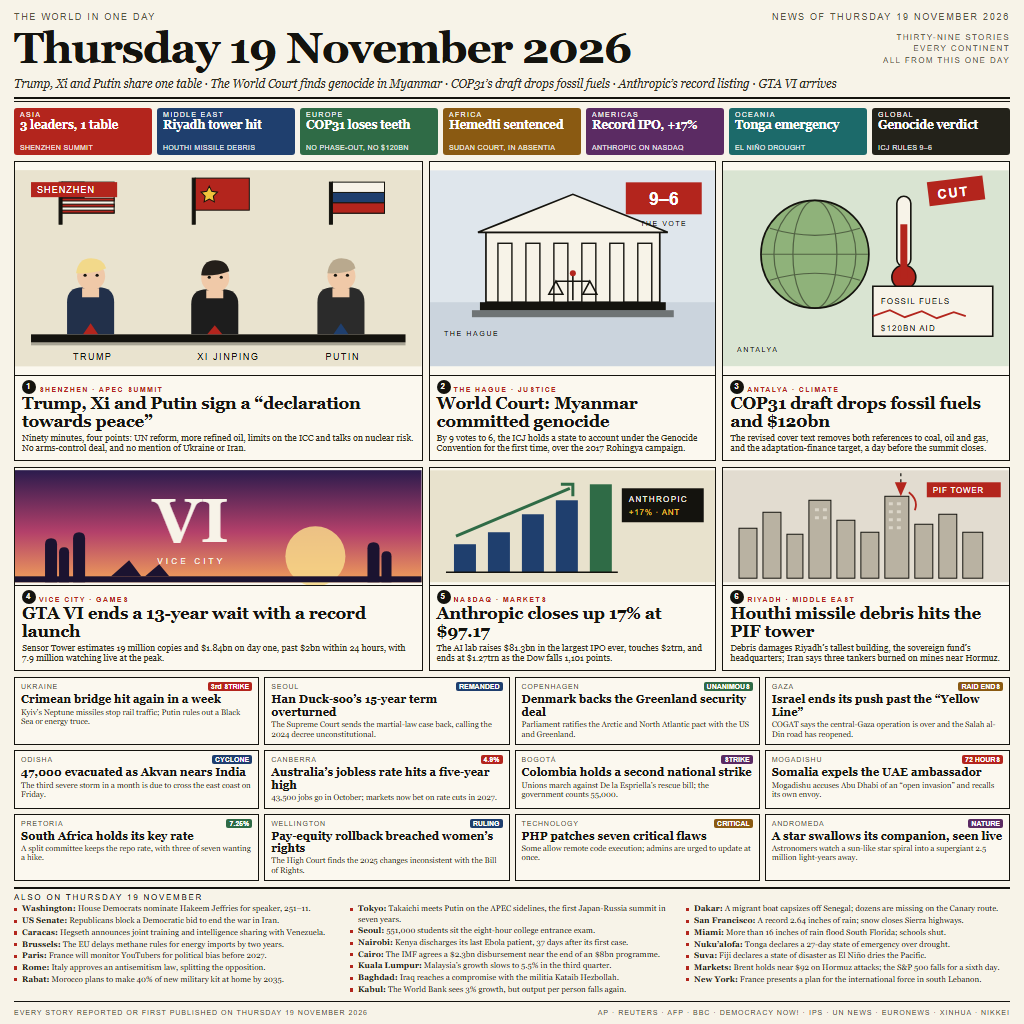
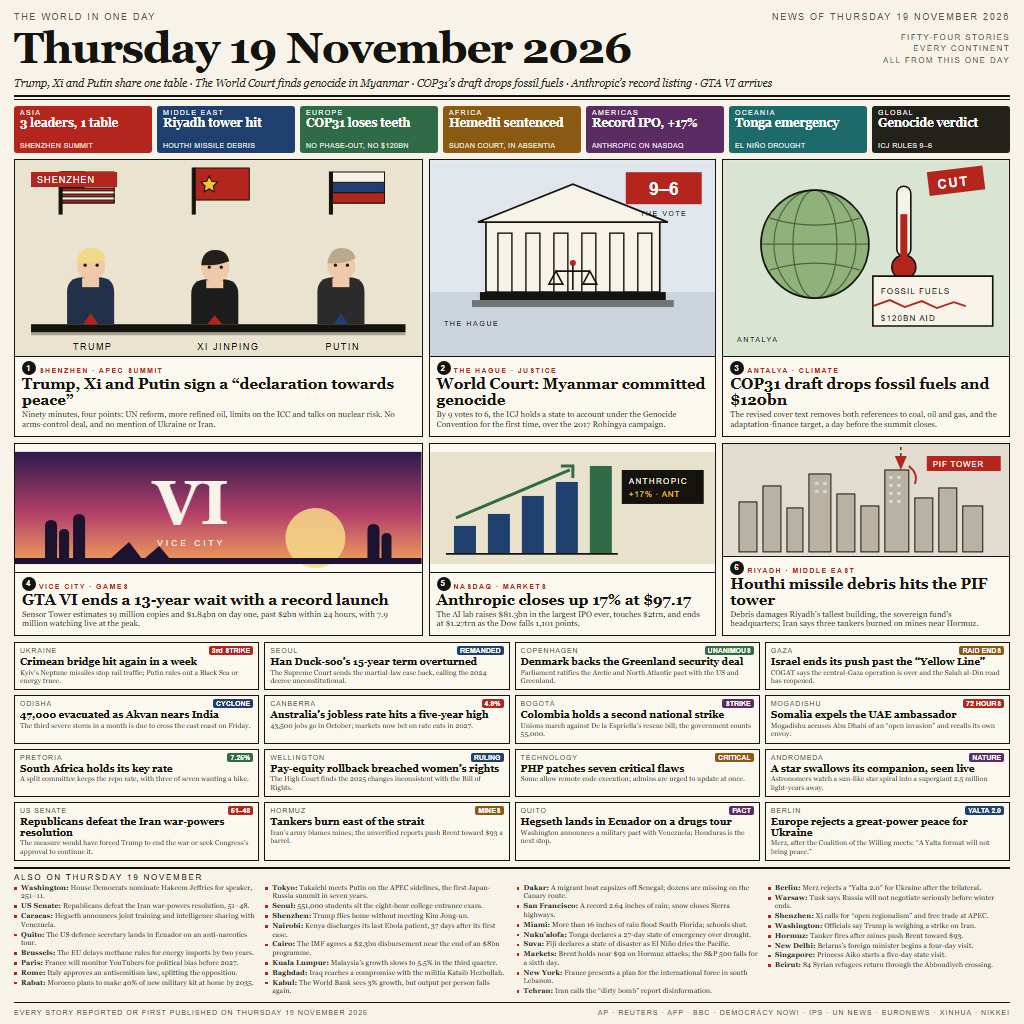
Expand the front page to 54 stories and tighten the layout

diff --git a/design/front-page.html b/design/front-page.html
@@ -15,7 +15,7 @@
   h1 { font-size: 44px; line-height: .94; letter-spacing: -1.3px; font-weight: 700; }
   .mastnote { text-align: right; font-family: Arial, Helvetica, sans-serif; font-size: 8px; letter-spacing: 1.4px;
     text-transform: uppercase; color: #57543f; line-height: 1.45; padding-bottom: 3px; }
-  .sub { font-size: 11.5px; font-style: italic; color: #2f2d22; margin-top: 2px; }
+  .sub { font-size: 10.6px; font-style: italic; color: #2f2d22; margin-top: 2px; }
   .rules { border-top: 2.5px solid #14130e; border-bottom: 1px solid #14130e; height: 5px; }
 
   .regions { display: grid; grid-template-columns: repeat(7, 1fr); gap: 5px; }
@@ -33,25 +33,25 @@
   .art svg { width: 100%; height: 100%; display: block; }
   .cap { padding: 4px 7px 6px; border-top: 1.4px solid #14130e; }
   .k { font-family: Arial, Helvetica, sans-serif; font-size: 7px; letter-spacing: 1.4px; text-transform: uppercase; color: #b3251d; font-weight: 700; }
-  .panel h2 { font-size: 17px; line-height: 1.05; letter-spacing: -.25px; margin: 1px 0 2px; }
-  .panel p { font-size: 8.8px; line-height: 1.24; color: #33311f; }
+  .panel h2 { font-size: 15.4px; line-height: 1.04; letter-spacing: -.25px; margin: 1px 0 2px; }
+  .panel p { font-size: 8.1px; line-height: 1.2; color: #33311f; }
   .num { display: inline-flex; align-items: center; justify-content: center; width: 14px; height: 14px; border-radius: 50%;
     background: #14130e; color: #f7f3e8; font-family: Arial, Helvetica, sans-serif; font-size: 8px; font-weight: 700; margin-right: 3px; vertical-align: 2px; }
 
   .cards { display: grid; grid-template-columns: repeat(4, 1fr); gap: 5px; }
-  .card { border: 1.2px solid #14130e; background: #fbf8ef; padding: 4px 6px 5px; display: flex; flex-direction: column; }
+  .card { border: 1.2px solid #14130e; background: #fbf8ef; padding: 3px 5px 4px; display: flex; flex-direction: column; }
   .card .top { display: flex; align-items: center; justify-content: space-between; margin-bottom: 2px; }
   .card .tag { font-family: Arial, Helvetica, sans-serif; font-size: 6.6px; letter-spacing: 1.1px; text-transform: uppercase; color: #57543f; }
-  .card h3 { font-size: 11.4px; line-height: 1.08; margin-bottom: 2px; letter-spacing: -.1px; }
-  .card p { font-size: 7.9px; line-height: 1.22; color: #33311f; }
+  .card h3 { font-size: 10.1px; line-height: 1.06; margin-bottom: 1px; letter-spacing: -.1px; }
+  .card p { font-size: 7.1px; line-height: 1.17; color: #33311f; }
   .card .badge { font-family: Arial, Helvetica, sans-serif; font-size: 7px; font-weight: 700; padding: 1px 3px; border-radius: 2px; color: #fff; }
 
   .ticker { border-top: 2.5px solid #14130e; border-bottom: 1px solid #14130e; padding: 4px 0 5px; display: grid;
-    grid-template-columns: repeat(3, 1fr); gap: 0 12px; }
+    grid-template-columns: repeat(4, 1fr); gap: 0 9px; }
   .ticker .h { grid-column: 1 / -1; font-family: Arial, Helvetica, sans-serif; font-size: 7.6px; letter-spacing: 2px;
     text-transform: uppercase; color: #14130e; margin-bottom: 2px; }
-  .item { font-size: 8.1px; line-height: 1.26; padding-left: 8px; position: relative; margin-bottom: 1.5px; color: #26251b; }
-  .item:before { content: ""; position: absolute; left: 0; top: 3.6px; width: 3.2px; height: 3.2px; background: #b3251d; }
+  .item { font-size: 7.2px; line-height: 1.2; padding-left: 7px; position: relative; margin-bottom: 1.2px; color: #26251b; }
+  .item:before { content: ""; position: absolute; left: 0; top: 3.1px; width: 2.8px; height: 2.8px; background: #b3251d; }
   .item b { font-weight: 700; }
 
   .foot { margin-top: auto; display: flex; justify-content: space-between; font-family: Arial, Helvetica, sans-serif;
@@ -64,7 +64,7 @@
   <div class="hrow"><span>The world in one day</span><span>News of Thursday 19 November 2026</span></div>
   <div class="mast">
     <h1>Thursday 19 November 2026</h1>
-    <div class="mastnote">Thirty-nine stories<br>Every continent<br>All from this one day</div>
+    <div class="mastnote">Fifty-four stories<br>Every continent<br>All from this one day</div>
   </div>
   <div class="sub">Trump, Xi and Putin share one table &middot; The World Court finds genocide in Myanmar &middot; COP31&rsquo;s draft drops fossil fuels &middot; Anthropic&rsquo;s record listing &middot; GTA VI arrives</div>
   <div class="rules"></div>
@@ -79,7 +79,7 @@
     <div class="reg r7"><div class="n">Global</div><div class="v">Genocide verdict</div><div class="c">ICJ rules 9&ndash;6</div></div>
   </div>
 
-  <div class="panels p3" style="height:300px">
+  <div class="panels p3" style="height:286px">
     <div class="panel">
       <div class="art">
         <svg viewBox="0 0 406 196">
@@ -197,7 +197,7 @@
     </div>
   </div>
 
-  <div class="panels p3" style="height:204px">
+  <div class="panels p3" style="height:194px">
     <div class="panel">
       <div class="art">
         <svg viewBox="0 0 406 112">
@@ -345,14 +345,36 @@
       <h3>A star swallows its companion, seen live</h3>
       <p>Astronomers watch a sun-like star spiral into a supergiant 2.5 million light-years away.</p>
     </div>
+
+    <div class="card">
+      <div class="top"><span class="tag">US Senate</span><span class="badge" style="background:#b3251d">51&ndash;48</span></div>
+      <h3>Republicans defeat the Iran war-powers resolution</h3>
+      <p>The measure would have forced Trump to end the war or seek Congress&rsquo;s approval to continue it.</p>
+    </div>
+    <div class="card">
+      <div class="top"><span class="tag">Hormuz</span><span class="badge" style="background:#8a5a12">MINES</span></div>
+      <h3>Tankers burn east of the strait</h3>
+      <p>Iran&rsquo;s army blames mines; the unverified reports push Brent toward $93 a barrel.</p>
+    </div>
+    <div class="card">
+      <div class="top"><span class="tag">Quito</span><span class="badge" style="background:#5b2b63">PACT</span></div>
+      <h3>Hegseth lands in Ecuador on a drugs tour</h3>
+      <p>Washington announces a military pact with Venezuela; Honduras is the next stop.</p>
+    </div>
+    <div class="card">
+      <div class="top"><span class="tag">Berlin</span><span class="badge" style="background:#1f3f6e">YALTA 2.0</span></div>
+      <h3>Europe rejects a great-power peace for Ukraine</h3>
+      <p>Merz, after the Coalition of the Willing meets: &ldquo;A Yalta format will not bring peace.&rdquo;</p>
+    </div>
   </div>
 
   <div class="ticker">
     <div class="h">Also on Thursday 19 November</div>
     <div>
       <div class="item"><b>Washington:</b> House Democrats nominate Hakeem Jeffries for speaker, 251&ndash;11.</div>
-      <div class="item"><b>US Senate:</b> Republicans block a Democratic bid to end the war in Iran.</div>
+      <div class="item"><b>US Senate:</b> Republicans defeat the Iran war-powers resolution, 51&ndash;48.</div>
       <div class="item"><b>Caracas:</b> Hegseth announces joint training and intelligence sharing with Venezuela.</div>
+      <div class="item"><b>Quito:</b> The US defence secretary lands in Ecuador on an anti-narcotics tour.</div>
       <div class="item"><b>Brussels:</b> The EU delays methane rules for energy imports by two years.</div>
       <div class="item"><b>Paris:</b> France will monitor YouTubers for political bias before 2027.</div>
       <div class="item"><b>Rome:</b> Italy approves an antisemitism law, splitting the opposition.</div>
@@ -361,6 +383,7 @@
     <div>
       <div class="item"><b>Tokyo:</b> Takaichi meets Putin on the APEC sidelines, the first Japan-Russia summit in seven years.</div>
       <div class="item"><b>Seoul:</b> 551,000 students sit the eight-hour college entrance exam.</div>
+      <div class="item"><b>Shenzhen:</b> Trump flies home without meeting Kim Jong-un.</div>
       <div class="item"><b>Nairobi:</b> Kenya discharges its last Ebola patient, 37 days after its first case.</div>
       <div class="item"><b>Cairo:</b> The IMF agrees a $2.3bn disbursement near the end of an $8bn programme.</div>
       <div class="item"><b>Kuala Lumpur:</b> Malaysia&rsquo;s growth slows to 5.5% in the third quarter.</div>
@@ -375,6 +398,17 @@
       <div class="item"><b>Suva:</b> Fiji declares a state of disaster as El Ni&ntilde;o dries the Pacific.</div>
       <div class="item"><b>Markets:</b> Brent holds near $92 on Hormuz attacks; the S&amp;P 500 falls for a sixth day.</div>
       <div class="item"><b>New York:</b> France presents a plan for the international force in south Lebanon.</div>
+      <div class="item"><b>Tehran:</b> Iran calls the &ldquo;dirty bomb&rdquo; report disinformation.</div>
+    </div>
+    <div>
+      <div class="item"><b>Berlin:</b> Merz rejects a &ldquo;Yalta 2.0&rdquo; for Ukraine after the trilateral.</div>
+      <div class="item"><b>Warsaw:</b> Tusk says Russia will not negotiate seriously before winter ends.</div>
+      <div class="item"><b>Shenzhen:</b> Xi calls for &ldquo;open regionalism&rdquo; and free trade at APEC.</div>
+      <div class="item"><b>Washington:</b> Officials say Trump is weighing a strike on Iran.</div>
+      <div class="item"><b>Hormuz:</b> Tanker fires after mines push Brent toward $93.</div>
+      <div class="item"><b>New Delhi:</b> Belarus&rsquo;s foreign minister begins a four-day visit.</div>
+      <div class="item"><b>Singapore:</b> Princess Aiko starts a five-day state visit.</div>
+      <div class="item"><b>Beirut:</b> 84 Syrian refugees return through the Abboudiyeh crossing.</div>
     </div>
   </div>
 
